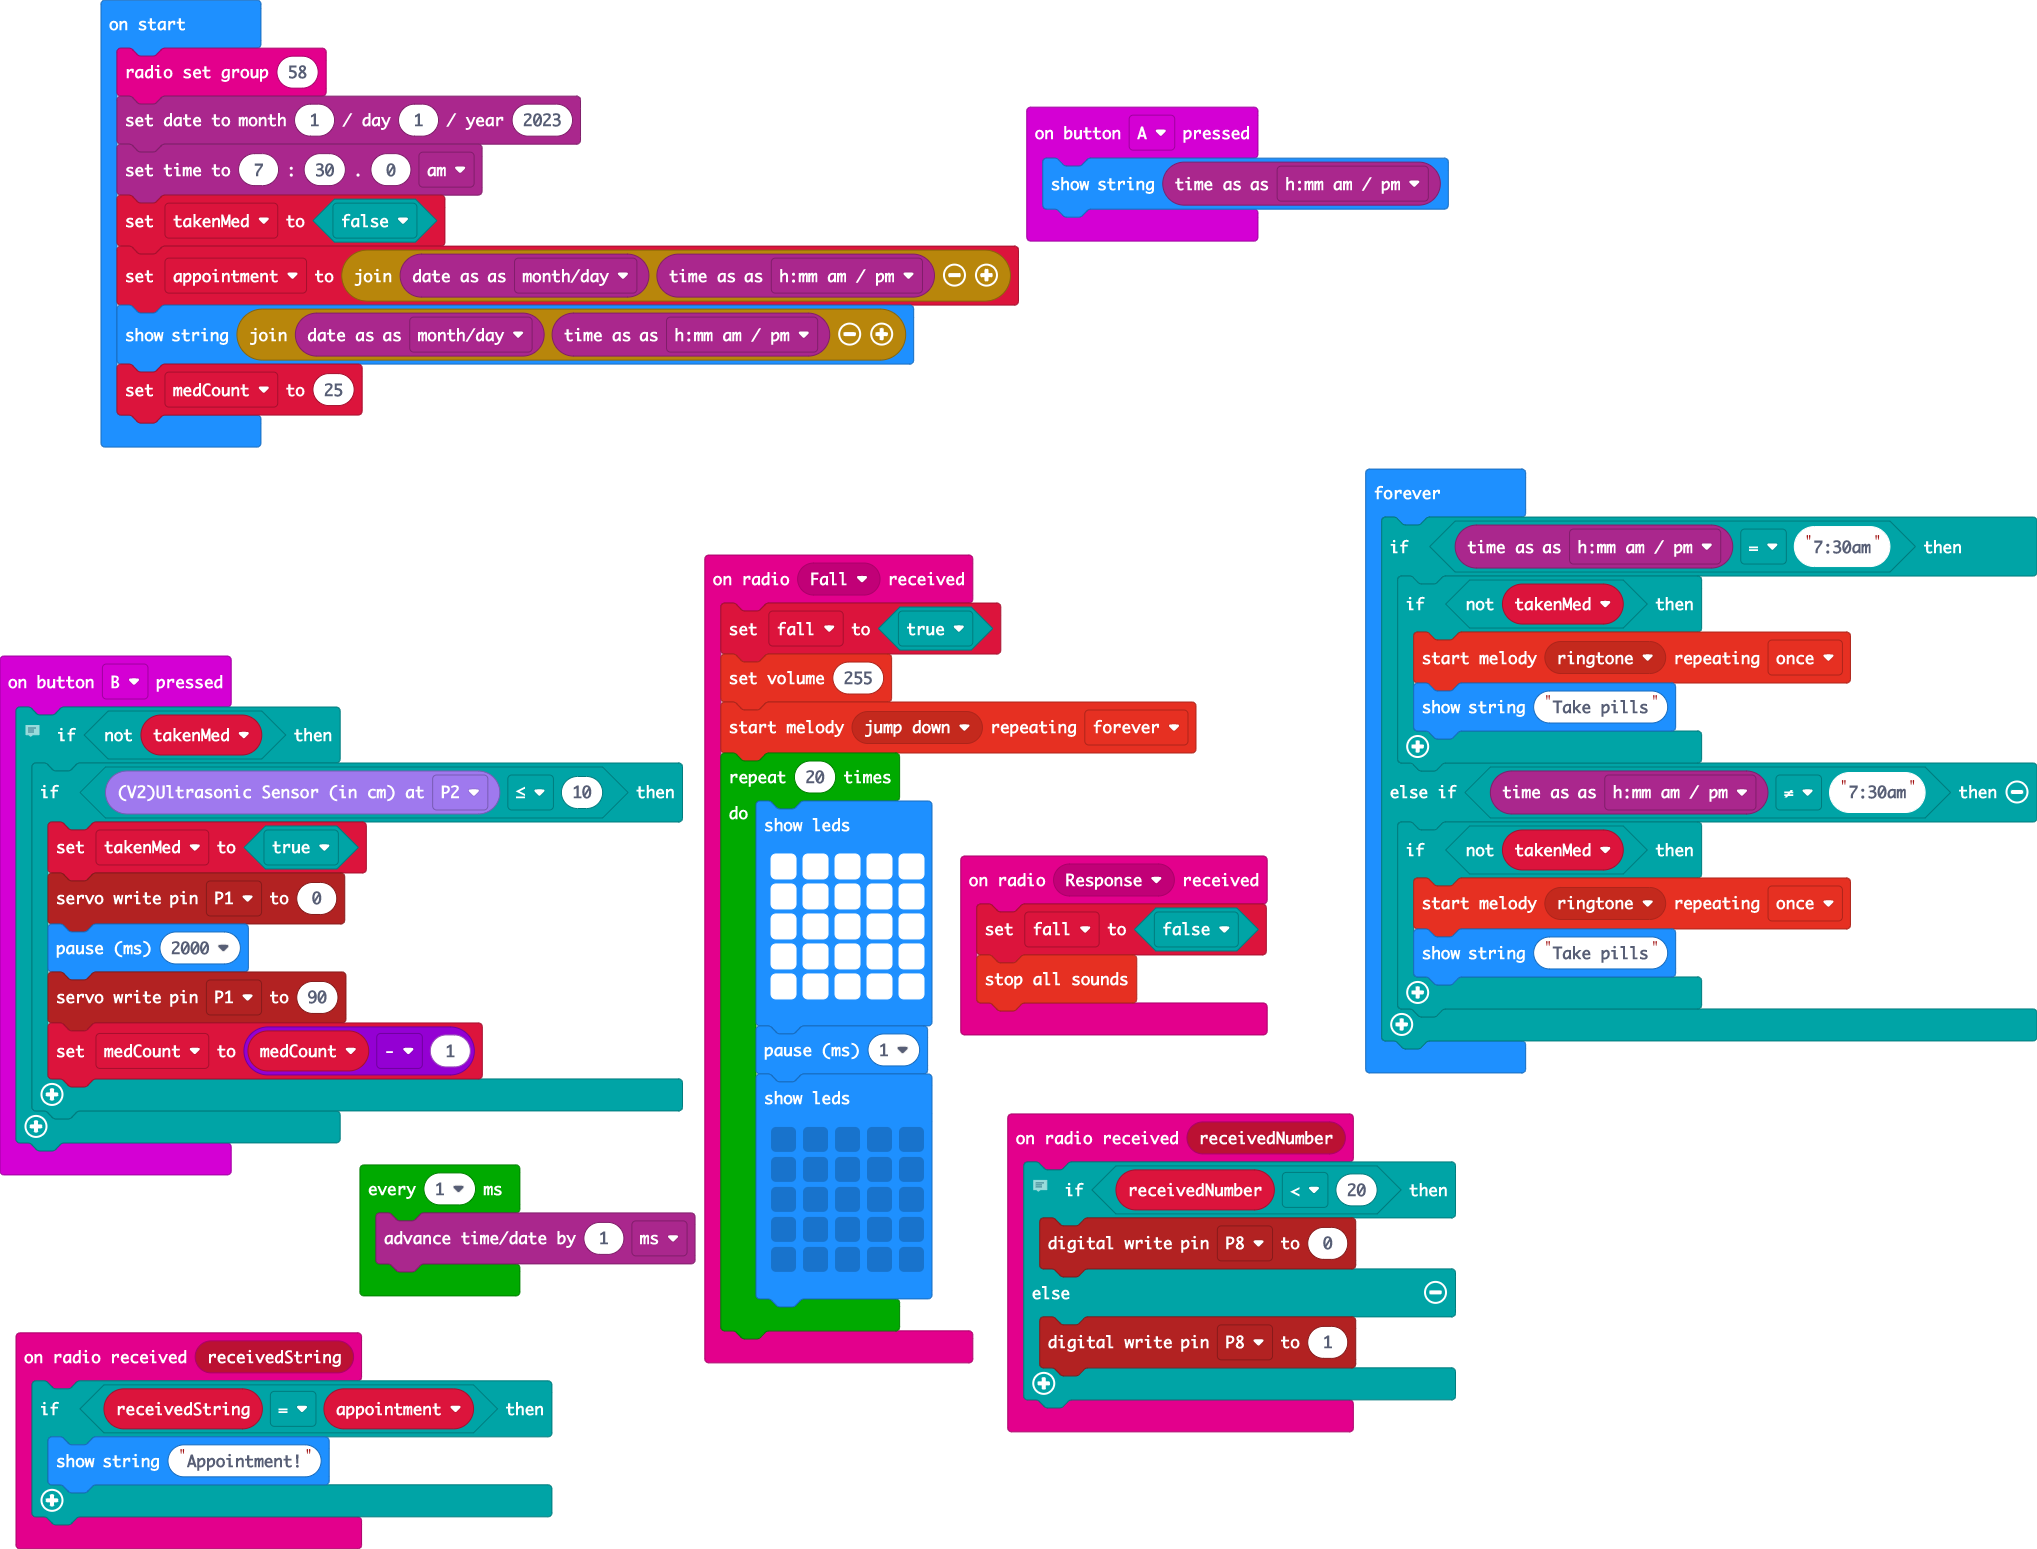
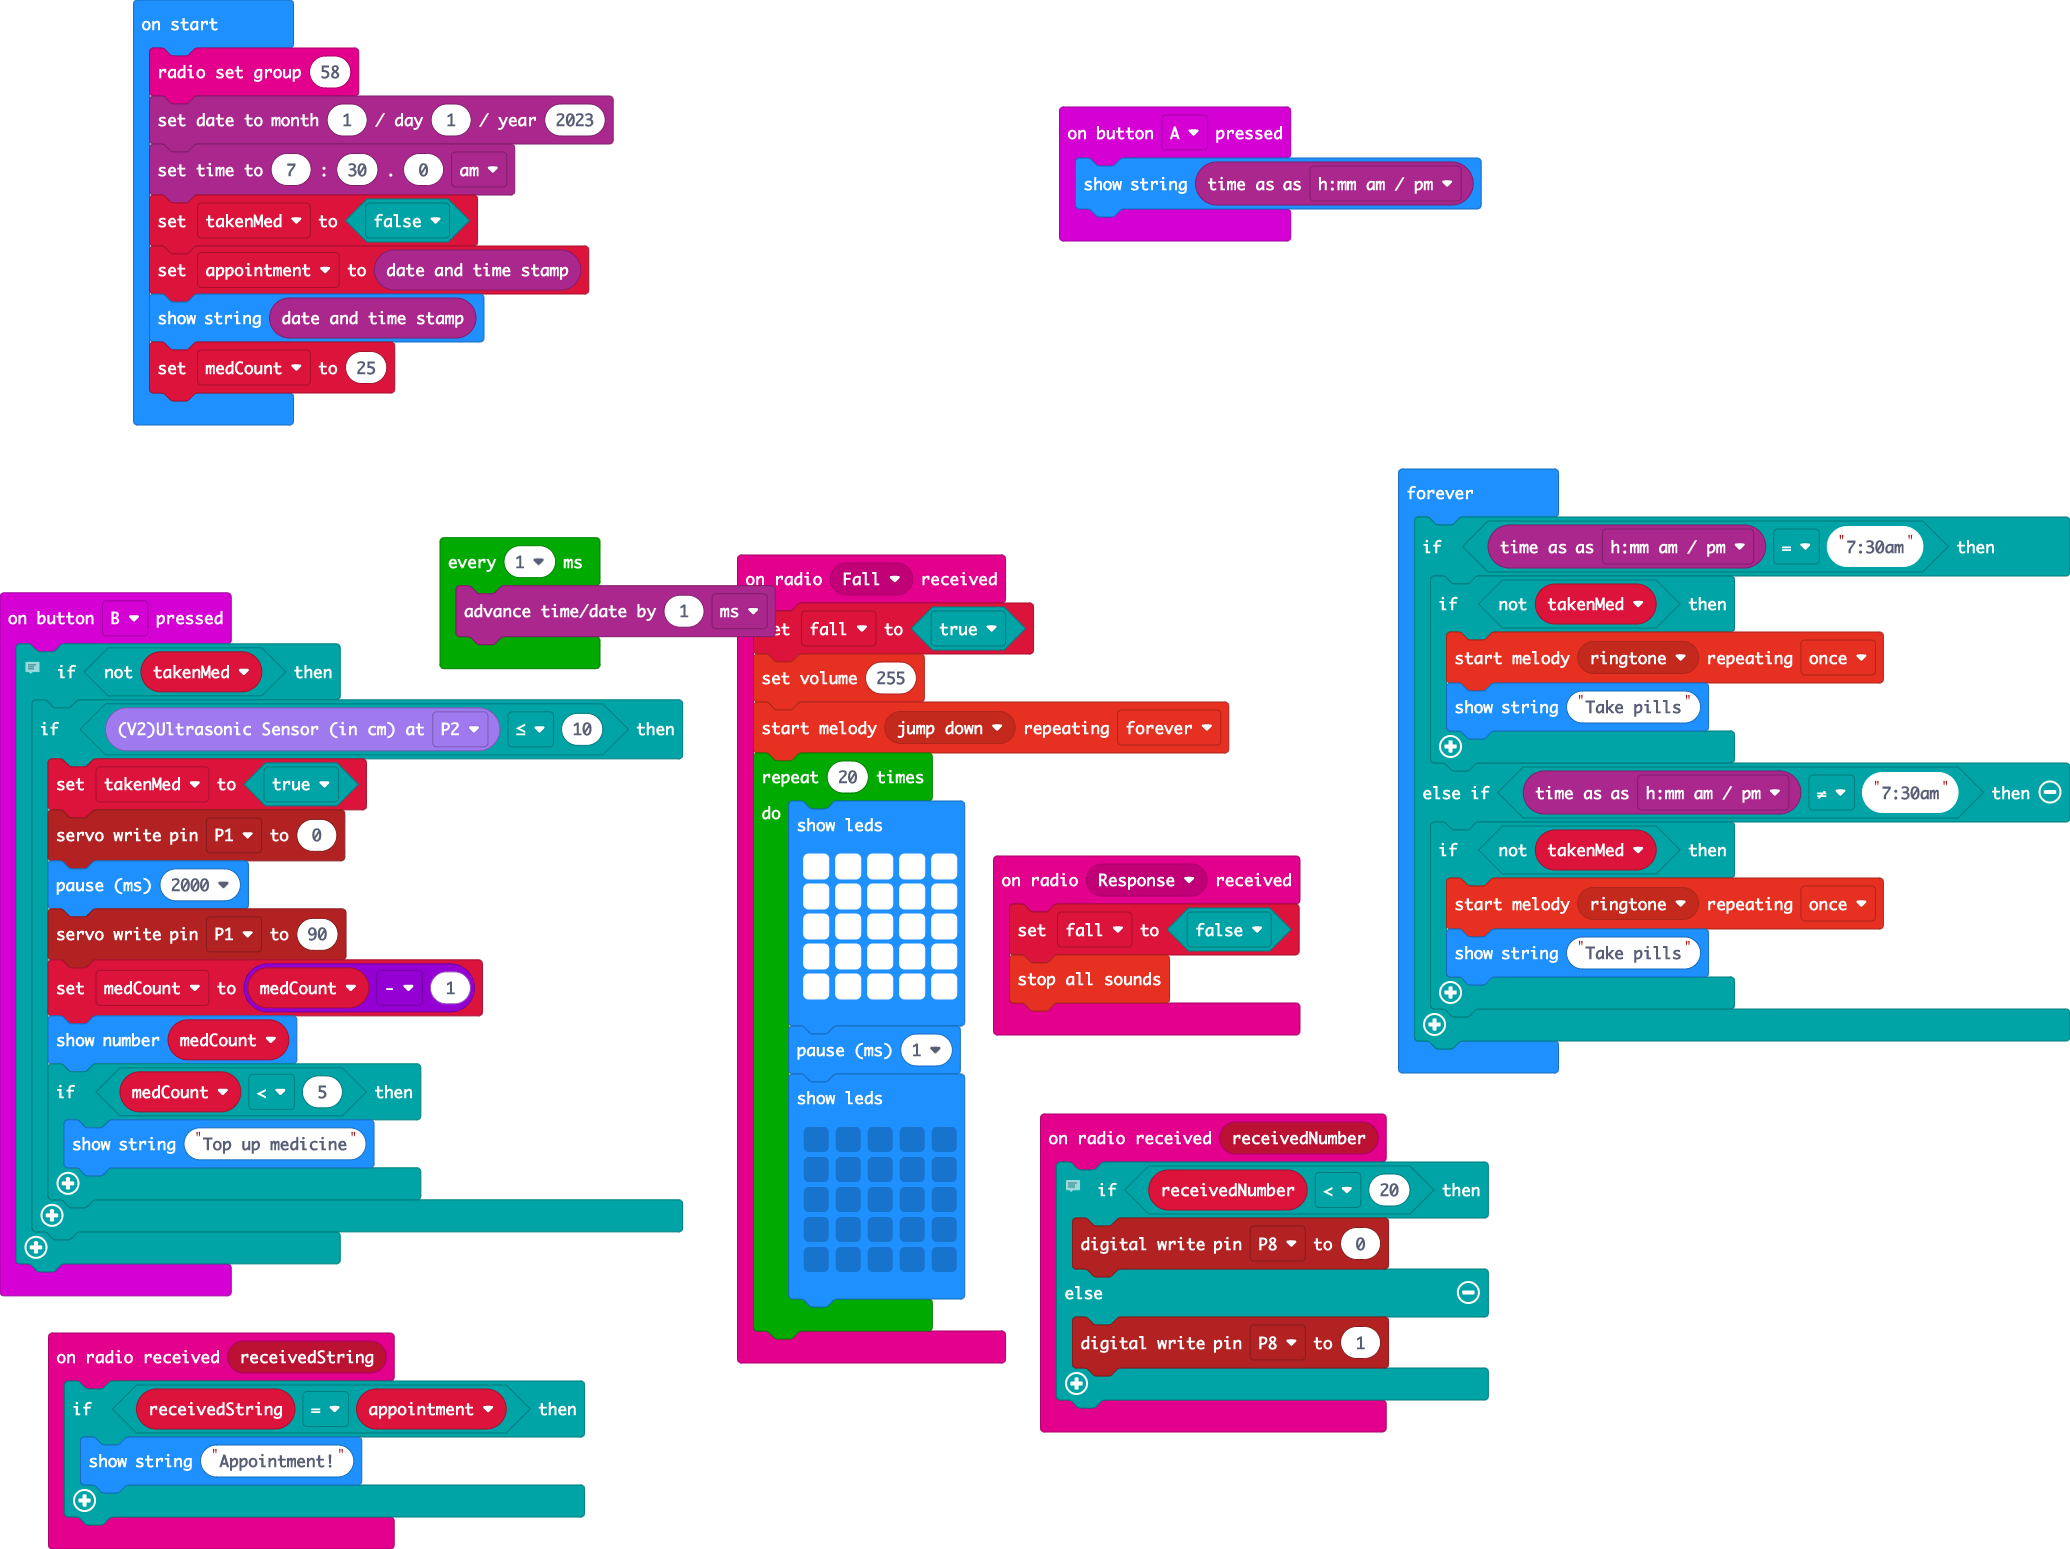
add medCount conditionals

diff --git a/main.ts b/main.ts
@@ -54,6 +54,10 @@ input.onButtonPressed(Button.B, function () {
             basic.pause(2000)
             pins.servoWritePin(AnalogPin.P1, 90)
             medCount = medCount - 1
+            basic.showNumber(medCount)
+            if (medCount < 5) {
+                basic.showString("Top up medicine")
+            }
         }
     }
 })
@@ -65,8 +69,8 @@ radio.setGroup(58)
 timeanddate.setDate(1, 1, 2023)
 timeanddate.setTime(7, 30, 0, timeanddate.MornNight.AM)
 takenMed = false
-appointment = "" + timeanddate.date(timeanddate.DateFormat.MD) + timeanddate.time(timeanddate.TimeFormat.HMMAMPM)
-basic.showString("" + timeanddate.date(timeanddate.DateFormat.MD) + timeanddate.time(timeanddate.TimeFormat.HMMAMPM))
+appointment = timeanddate.dateTime()
+basic.showString(timeanddate.dateTime())
 medCount = 25
 loops.everyInterval(1, function () {
     timeanddate.advanceBy(1, timeanddate.TimeUnit.Milliseconds)
